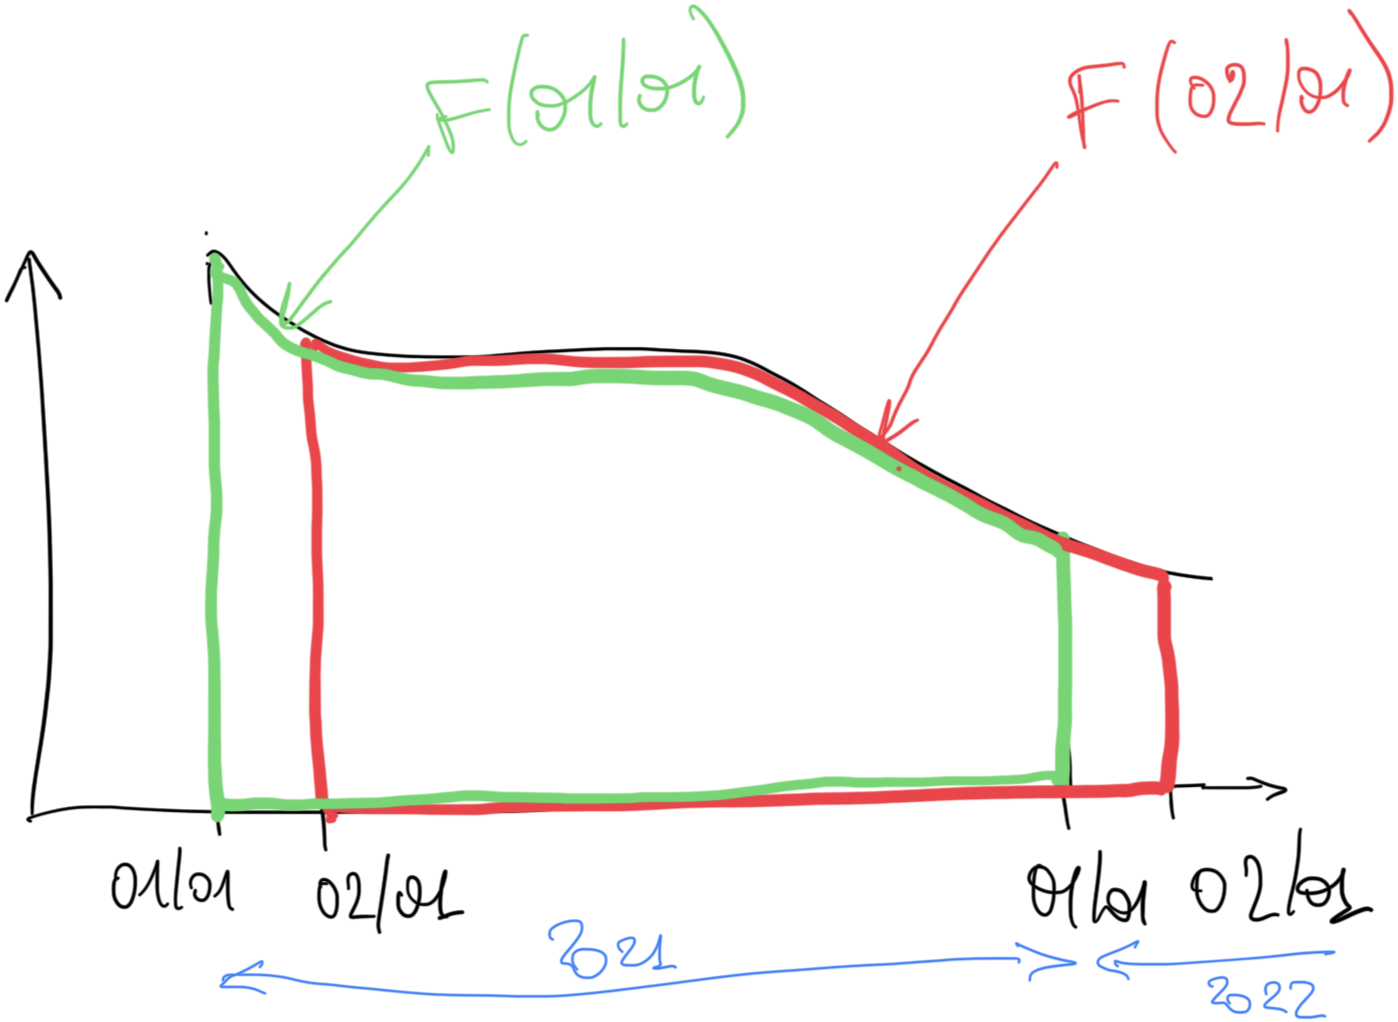
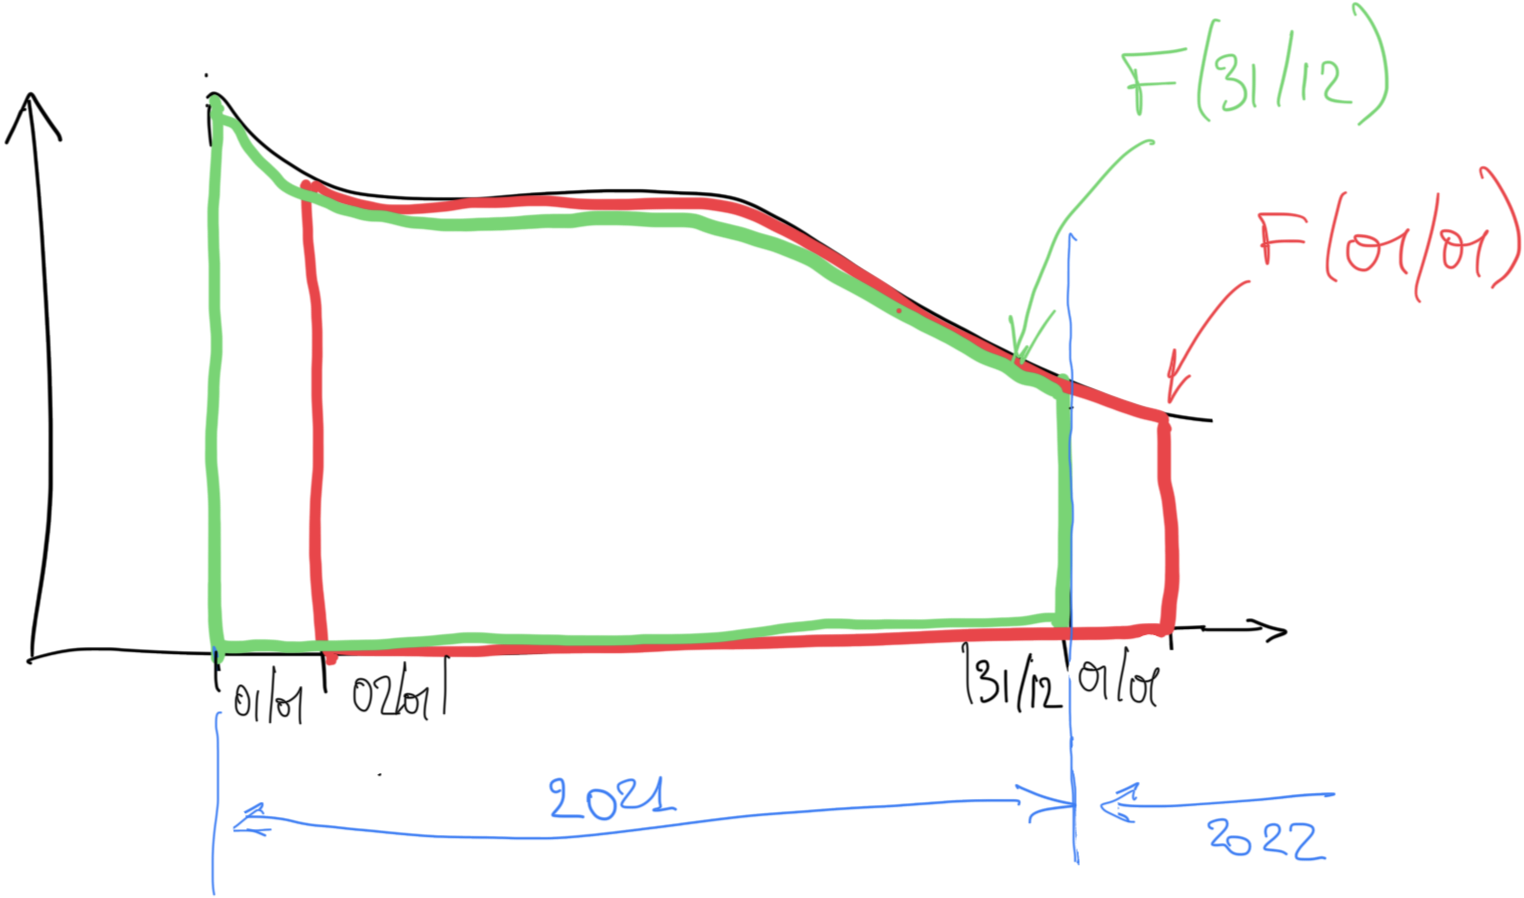
fix bugs in explanation of the rolling logic - and the svg as well

diff --git a/notebooks/2-10-timeseries-nb.py b/notebooks/2-10-timeseries-nb.py
@@ -378,7 +378,7 @@ df.loc['2019'].head(3)
 # filtrer à partir du 1er janvier 2019 jusqu'à la fin des données
 
 # %% [markdown]
-# ## aggrégations avec `resample()` et `rolling()`
+# ## aggrégations: `resample()` et `rolling()`
 #
 # ````{admonition} →
 # ces deux fonctions travaillent de la même façon:
@@ -476,6 +476,14 @@ ticks.dtypes
 # ````
 
 # %% [markdown]
+# ````{admonition} au centre ou à droite
+# :class: dropdown tip
+#
+# par défaut `rolling` attache la valeur *à la fin* de l'intervalle, ou dit autrement il va grouper les données qui sont à gauche du point dont on parle  
+# (on peut demander aussi de l'attacher au centre de l'intervalle, comme on l'a fait sur la figure)
+# ````
+
+# %% [markdown]
 # ````{admonition} attention aux unités !
 # :class: dropdown
 #
@@ -494,23 +502,26 @@ ticks.dtypes
 # (avec la somme comme agrégation pour simplifier les équations), on va avoir
 #
 # ```{image} media/rolling-logic.png
-# :width: 300px
+# :width: 400px
 # :align: right
 # ```
 #
+# calculons le rolling pour deux jours consécutifs; avec la convention qu'on fait une rolling sur le passé (le défaut, donc) on a
+#
 # $$
-# F(01/01/2021) = \sum_{j=01/01/2021}^{31/12/2021} f(j) \\
+# F(31/12/2021) = \sum_{j=01/01/2021}^{31/12/2021} f(j) \\
 # \;et\; \\
-# F(02/01/2021) = \sum_{j=02/01/2021}^{01/01/2022} f(j)
+# F(01/01/2022) = \sum_{j=02/01/2021}^{01/01/2022} f(j)
 # $$
 #
 # et donc la différence pour F entre deux jours consécutifs vaut
 #
 # $$
-# F(02/01/2021) - F(01/01/2021) = f(02/01/20\textbf{22}) - f(01/01/20\textbf{21})
+# F(01/01/2022) - F(31/12/2021) = f(01/01/20\textbf{22}) - f(01/01/20\textbf{21}) \\
 # $$
 #
-# ce qui signifie que la dérivée de $F$ (la différence d'un jour à l'autre), c'est l'évolution de $f$ mais **d'une année sur l'autre**
+# ce qui signifie que  
+# la dérivée de $F$ (la différence d'**un jour à l'autre**), c'est l'évolution de $f$ mais **d'une année sur l'autre**
 #
 #
 

diff --git a/notebooks/.teacher/2-10-timeseries-corrige-nb.py b/notebooks/.teacher/2-10-timeseries-corrige-nb.py
@@ -526,7 +526,7 @@ df.loc['2019'].head(3)
 df.loc['2019':]
 
 # %% [markdown]
-# ## aggrégations avec `resample()` et `rolling()`
+# ## aggrégations: `resample()` et `rolling()`
 #
 # ````{admonition} →
 # ces deux fonctions travaillent de la même façon:
@@ -624,6 +624,14 @@ ticks.dtypes
 # ````
 
 # %% [markdown]
+# ````{admonition} au centre ou à droite
+# :class: dropdown tip
+#
+# par défaut `rolling` attache la valeur *à la fin* de l'intervalle, ou dit autrement il va grouper les données qui sont à gauche du point dont on parle  
+# (on peut demander aussi de l'attacher au centre de l'intervalle, comme on l'a fait sur la figure)
+# ````
+
+# %% [markdown]
 # ````{admonition} attention aux unités !
 # :class: dropdown
 #
@@ -642,23 +650,26 @@ ticks.dtypes
 # (avec la somme comme agrégation pour simplifier les équations), on va avoir
 #
 # ```{image} media/rolling-logic.png
-# :width: 300px
+# :width: 400px
 # :align: right
 # ```
 #
+# calculons le rolling pour deux jours consécutifs; avec la convention qu'on fait une rolling sur le passé (le défaut, donc) on a
+#
 # $$
-# F(01/01/2021) = \sum_{j=01/01/2021}^{31/12/2021} f(j) \\
+# F(31/12/2021) = \sum_{j=01/01/2021}^{31/12/2021} f(j) \\
 # \;et\; \\
-# F(02/01/2021) = \sum_{j=02/01/2021}^{01/01/2022} f(j)
+# F(01/01/2022) = \sum_{j=02/01/2021}^{01/01/2022} f(j)
 # $$
 #
 # et donc la différence pour F entre deux jours consécutifs vaut
 #
 # $$
-# F(02/01/2021) - F(01/01/2021) = f(02/01/20\textbf{22}) - f(01/01/20\textbf{21})
+# F(01/01/2022) - F(31/12/2021) = f(01/01/20\textbf{22}) - f(01/01/20\textbf{21}) \\
 # $$
 #
-# ce qui signifie que la dérivée de $F$ (la différence d'un jour à l'autre), c'est l'évolution de $f$ mais **d'une année sur l'autre**
+# ce qui signifie que  
+# la dérivée de $F$ (la différence d'**un jour à l'autre**), c'est l'évolution de $f$ mais **d'une année sur l'autre**
 #
 #
 
